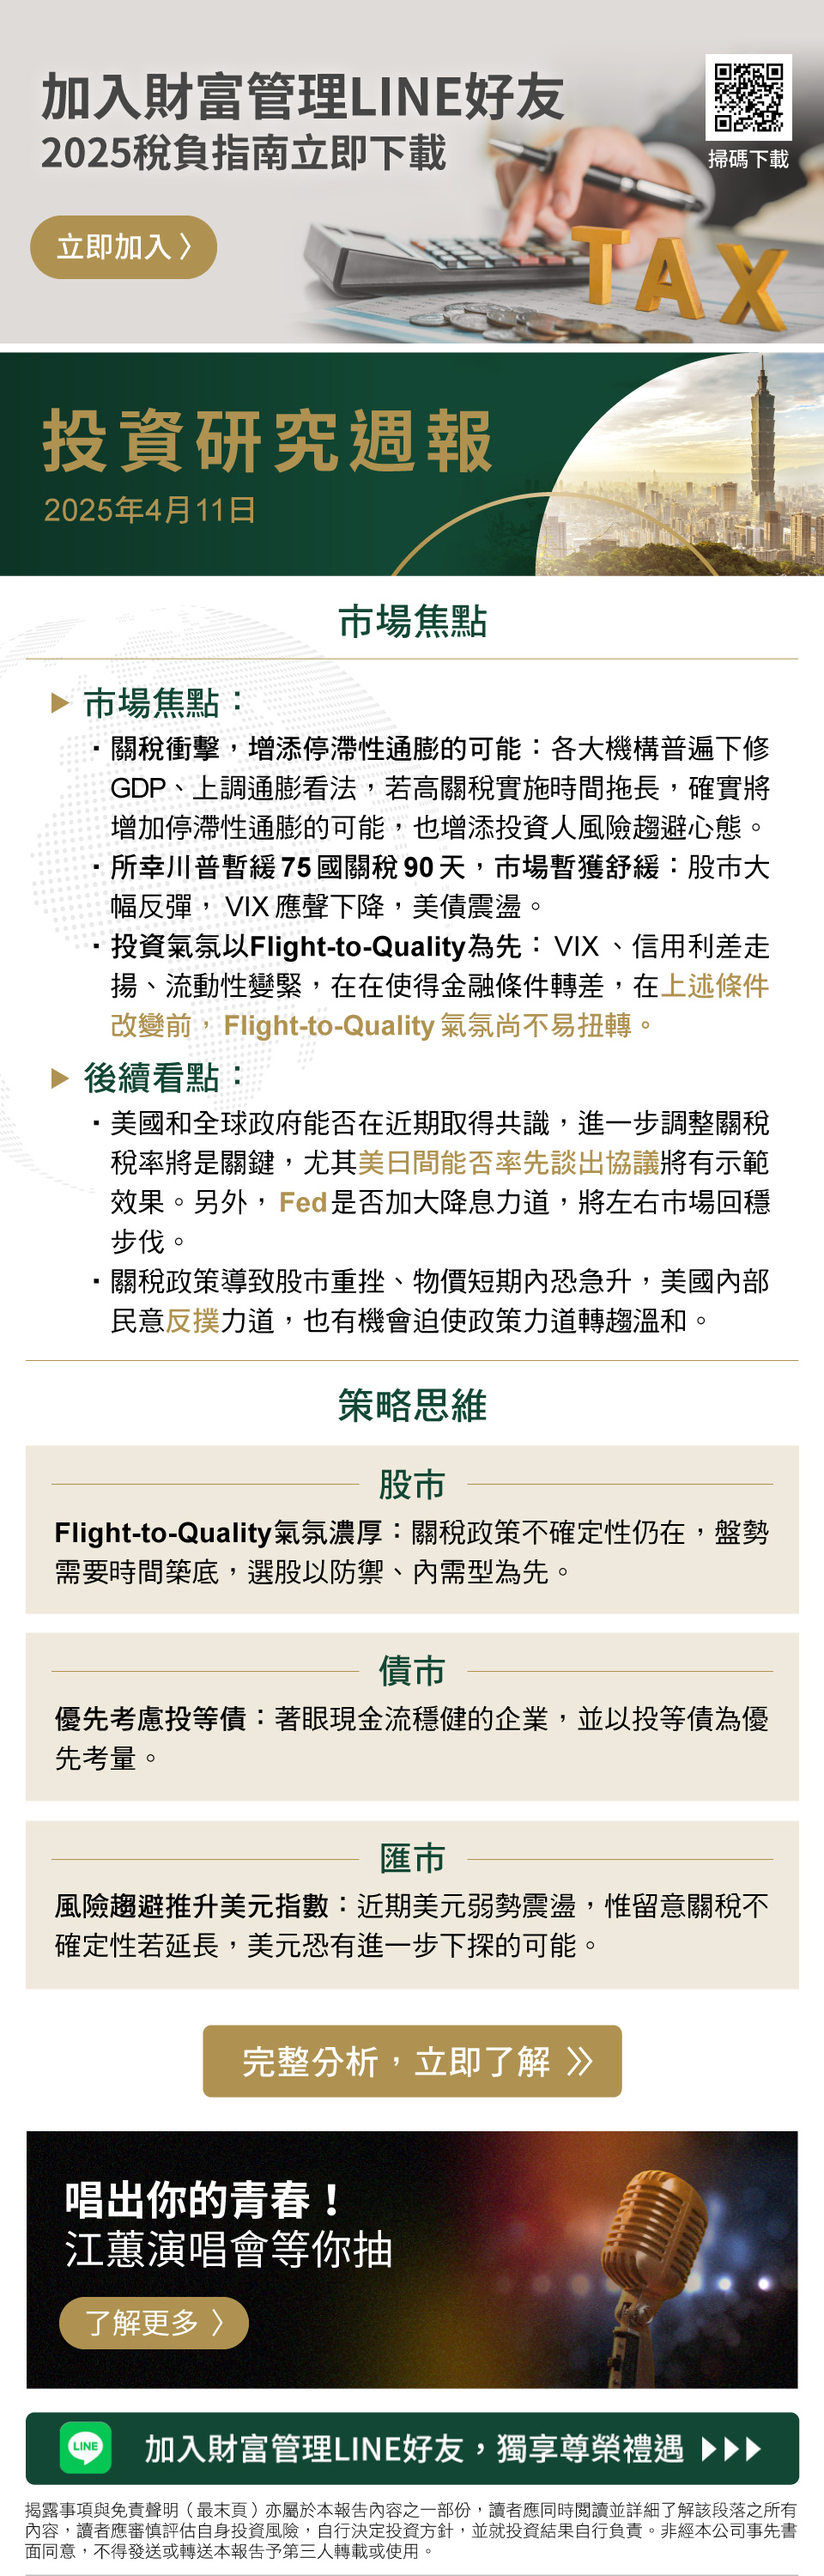
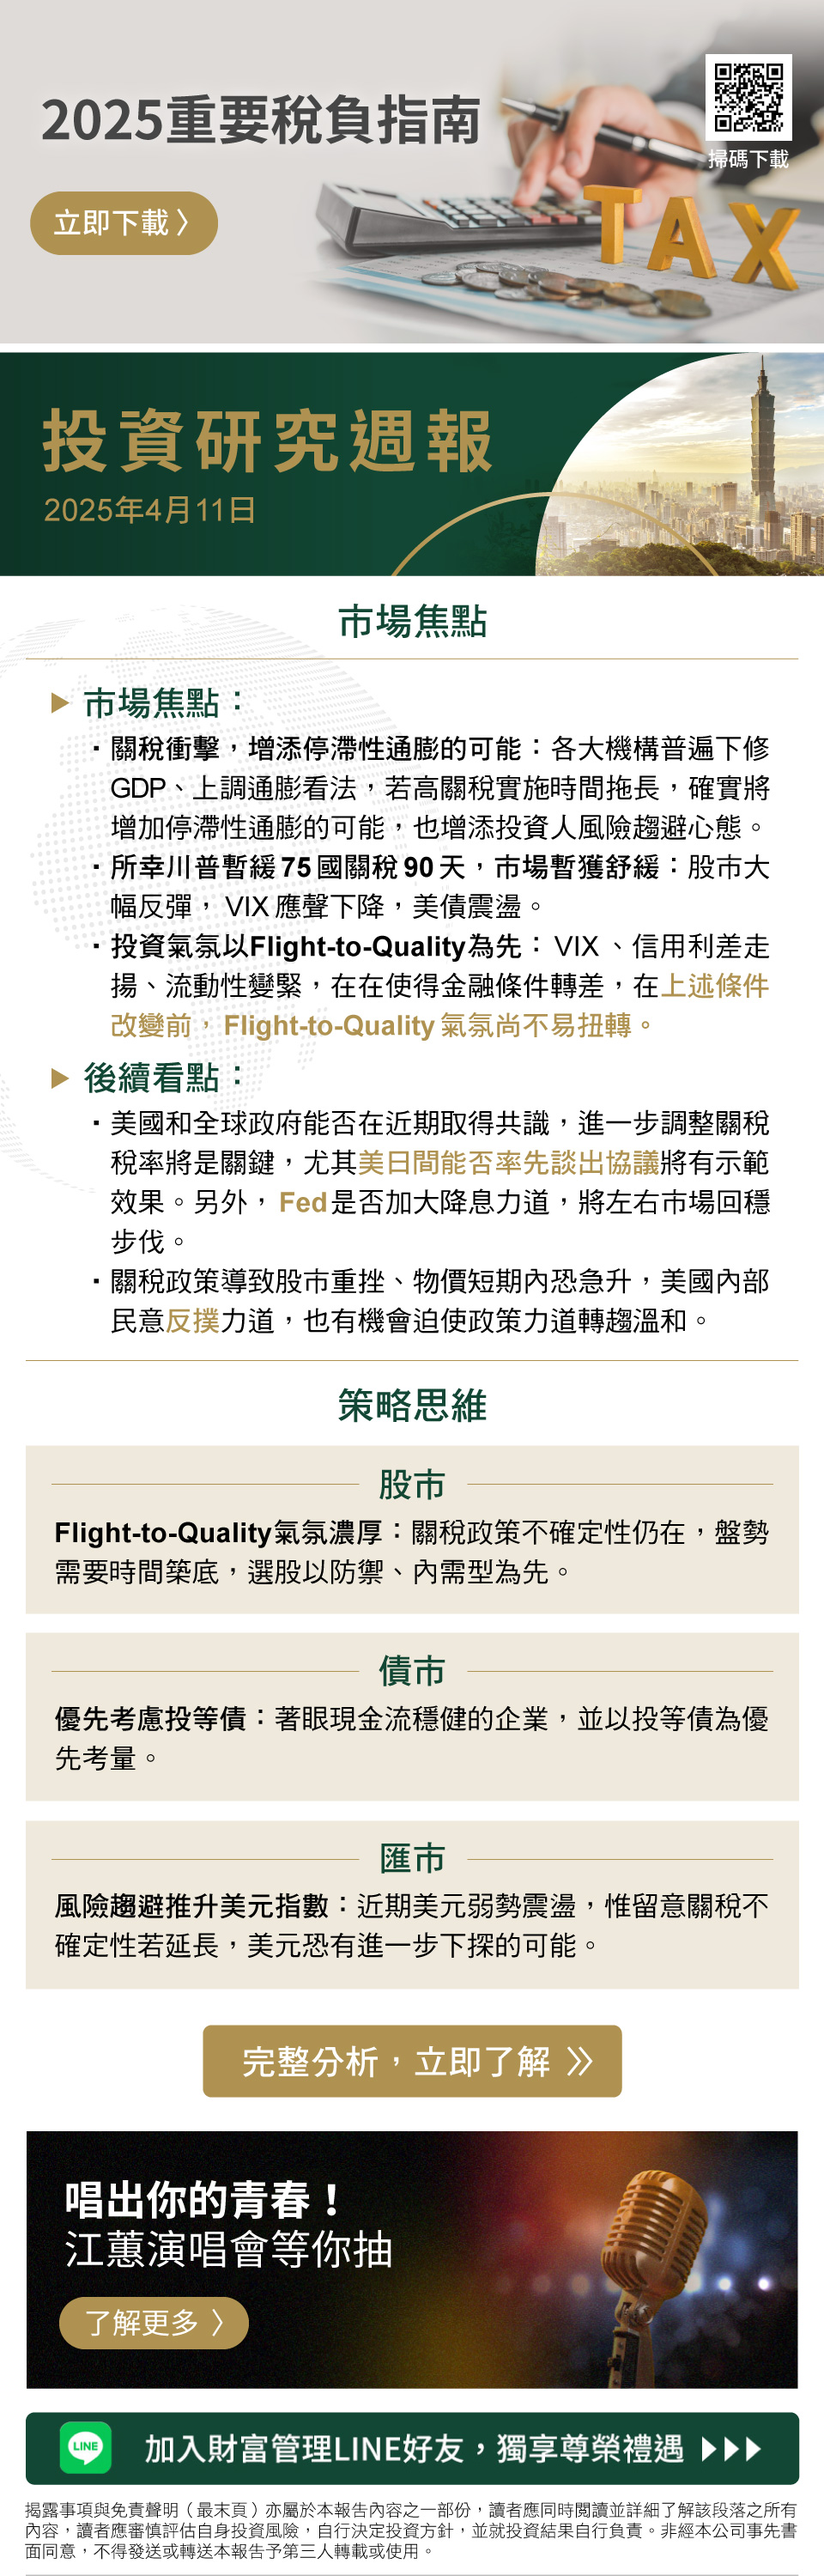
update

Changed region(s): [[0.0312, 0.0, 1.0, 0.155]]

diff --git a/Cathay-view20250411/index.html b/Cathay-view20250411/index.html
@@ -367,7 +367,7 @@
   </table>
 
 <map name="Map">
-  <area shape="rect" coords="2,2,477,196" href="https://www.cathaybk.com.tw/cathaybk/personal/product/wealth/?" target="_blank" alt="加財富管理LINE好友，2025稅務指南立即下載">
+  <area shape="rect" coords="2,2,477,196" href="https://www.cathaybk.com.tw/cathaybk/personal/product/wealth/" target="_blank" alt="加財富管理LINE好友，2025稅務指南立即下載">
   <area shape="rect" coords="13,1403,467,1447" href="https://lin.ee/BGQktyq" target="_blank" alt="加入財富管理LINE好友，獨享尊榮禮遇">
 <area shape="rect" coords="1,208,478,1223" href="images/weekly20250411.pdf" target="_blank" alt="投資研究週報20250411">
   <area shape="rect" coords="15,1241,466,1392" href="https://www.cathaybk.com.tw/cathaybk/personal/campaigns/line/cubwealthline/#blockName01&utm_source=bn&utm_medium=link&utm_campaign=75394" target="_blank" alt="唱出你的青春! 江蕙演唱會等你抽">
